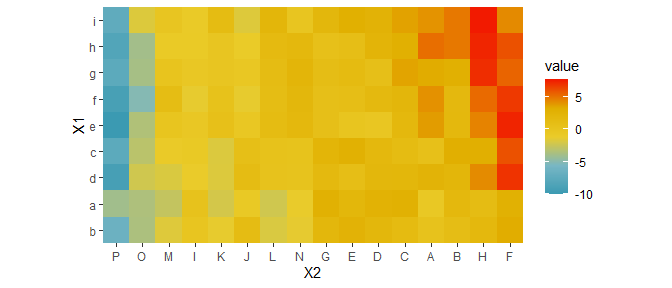
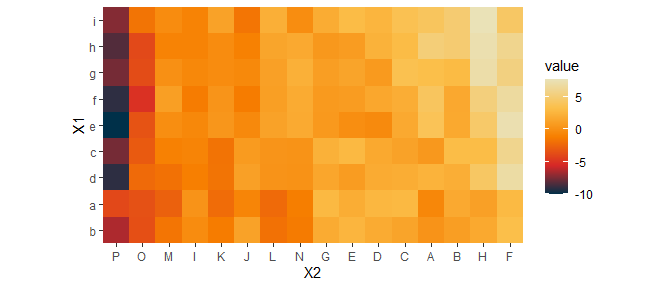
imageupdate

diff --git a/README.md b/README.md
@@ -3,18 +3,16 @@
 ColourSauce: Colours From The Sauce
 ===================================
 
-<p align="center">
-
 *You buy you some orange, how long’s that going to last in your fridge?
 Couple days, maybe? That’s the juice. How long does BBQ sauce last in
 your fridge? A while. That’s the sauce, man. It sticks around. It’s
 thick, hard to move.*
 
+<p align="center">
 <img src="figure/kermit.gif" id="id" class="class" style="width:150.0%;height:100.0%" />
+</p>
 
 > Does picking the right colours stress you? No worries mate, I got you!
-
-</p>
 
 These are are some hand picked colour palettes I’ve chosen to spice them
 boring plots to something everyone can get around! This package was
@@ -34,82 +32,102 @@ Usage
 -----
 
 ``` r
-
-library("wesanderson")
+library("ColourSauce")
 
 # See all palettes
-names(wes_palettes)
-#>  [1] "BottleRocket1"  "BottleRocket2"  "Rushmore1"      "Rushmore"      
-#>  [5] "Royal1"         "Royal2"         "Zissou1"        "Darjeeling1"   
-#>  [9] "Darjeeling2"    "Chevalier1"     "FantasticFox1"  "Moonrise1"     
-#> [13] "Moonrise2"      "Moonrise3"      "Cavalcanti1"    "GrandBudapest1"
-#> [17] "GrandBudapest2" "IsleofDogs1"    "IsleofDogs2"
+names(saucecolours)
+#>  [1] "CoolRdBu"       "CoolHeat"       "CoolContrast1"  "CoolContrast2" 
+#>  [5] "CoolCocoa"      "CoolGnRd"       "CoolDarkLava"   "CoolSageBrown" 
+#>  [9] "CoolBlueCopper" "CoolShadowRose"
 ```
 
 Palettes
 --------
 
-### Bottle Rocket (1996)
+A show case of the palettes by category of inspiration
+
+-   My top 10 favourites from
+    [coolors.co](https://coolors.co/palettes/popular)
+
+### coolors.co
 
 ``` r
-wes_palette("BottleRocket1")
+coloursauce("CoolRdBu")
 ```
 
 ![](figure/bottlerocket1-1.png)
 
 ``` r
-wes_palette("BottleRocket2")
+coloursauce("CoolHeat")
 ```
 
 ![](figure/bottlerocket1-2.png)
 
-### Rushmore (1998)
-
 ``` r
-wes_palette("Rushmore1")
+coloursauce("CoolContrast1")
 ```
 
-![](figure/rushmore-1.png)
-
-### The Royal Tenenbaums (2001)
+![](figure/bottlerocket1-3.png)
 
 ``` r
-wes_palette("Royal1")
+coloursauce("CoolContrast2")
 ```
 
-![](figure/royal-1.png)
+![](figure/bottlerocket1-4.png)
 
 ``` r
-wes_palette("Royal2")
+coloursauce("CoolCocoa")
 ```
 
-![](figure/royal-2.png)
+![](figure/bottlerocket1-5.png)
+
+``` r
+coloursauce("CoolGnRd")
+```
+
+![](figure/bottlerocket1-6.png)
+
+``` r
+coloursauce("CoolDarkLava")
+```
+
+![](figure/bottlerocket1-7.png)
+
+``` r
+coloursauce("CoolSageBrown")
+```
+
+![](figure/bottlerocket1-8.png)
+
+``` r
+coloursauce("CoolBlueCopper")
+```
+
+![](figure/bottlerocket1-9.png)
+
+``` r
+coloursauce("CoolShadowRose")
+```
+
+![](figure/bottlerocket1-10.png)
 
 ``` r
 library("ggplot2")
 ggplot(mtcars, aes(factor(cyl), fill=factor(vs))) +  geom_bar() +
-  scale_fill_manual(values = wes_palette("Royal1"))
+  scale_fill_manual(values = coloursauce("CoolDarkLava"))
 ```
 
 ![](figure/ggplot1-1.png)
 
-### The Life Aquatic with Steve Zissou (2004)
-
 ``` r
-wes_palette("Zissou1")
-```
-
-![](figure/lifeaquatic-1.png)
-
-``` r
-pal <- wes_palette("Zissou1", 21, type = "continuous")
+pal <- coloursauce("CoolHeat", 21, type = "continuous")
 image(volcano, col = pal)
 ```
 
 ![](figure/volcano-1.png)
 
 ``` r
-pal <- wes_palette("Zissou1", 100, type = "continuous")
+pal <- coloursauce("CoolHeat", 100, type = "continuous")
 # heatmap is a local dataset
 ggplot(heatmap, aes(x = X2, y = X1, fill = value)) +
   geom_tile() + 
@@ -120,89 +138,3 @@ ggplot(heatmap, aes(x = X2, y = X1, fill = value)) +
 ```
 
 ![](figure/zissou_heatmap-1.png)
-
-### The Darjeeling Limited (2007)
-
-``` r
-wes_palette("Darjeeling1")
-```
-
-![](figure/darjeeling-1.png)
-
-``` r
-wes_palette("Darjeeling2")
-```
-
-![](figure/darjeeling-2.png)
-
-### Hotel Chevalier (2007)
-
-``` r
-wes_palette("Chevalier1")
-```
-
-![](figure/chevalier-1.png)
-
-### Fantastic Mr. Fox (2009)
-
-``` r
-wes_palette("FantasticFox1")
-```
-
-![](figure/fantasticfox-1.png)
-
-### Moonrise Kingdom (2012)
-
-``` r
-wes_palette("Moonrise1")
-```
-
-![](figure/moonrise-1.png)
-
-``` r
-wes_palette("Moonrise2")
-```
-
-![](figure/moonrise-2.png)
-
-``` r
-wes_palette("Moonrise3")
-```
-
-![](figure/moonrise-3.png)
-
-### Castello Cavalcanti (2013)
-
-``` r
-wes_palette("Cavalcanti1")
-```
-
-![](figure/castello-1.png)
-
-### The Grand Budapest Hotel (2014)
-
-``` r
-wes_palette("GrandBudapest1")
-```
-
-![](figure/grandbudapest-1.png)
-
-``` r
-wes_palette("GrandBudapest2")
-```
-
-![](figure/grandbudapest-2.png)
-
-### The Isle of Dogs (2018)
-
-``` r
-wes_palette("IsleofDogs1")
-```
-
-![](figure/isleofdogs-1.png)
-
-``` r
-wes_palette("IsleofDogs2")
-```
-
-![](figure/isleofdogs-2.png)
